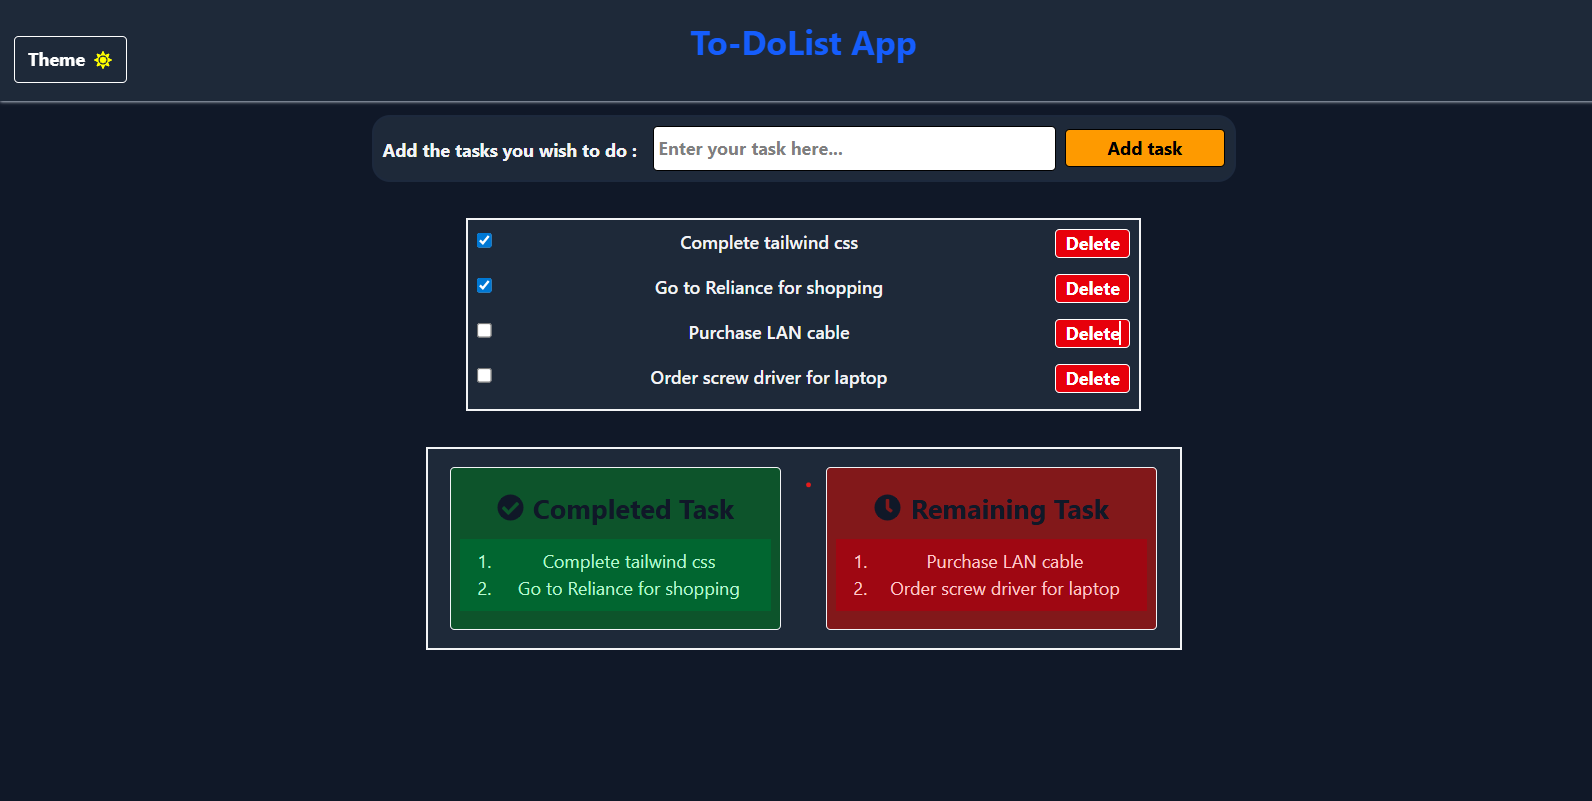
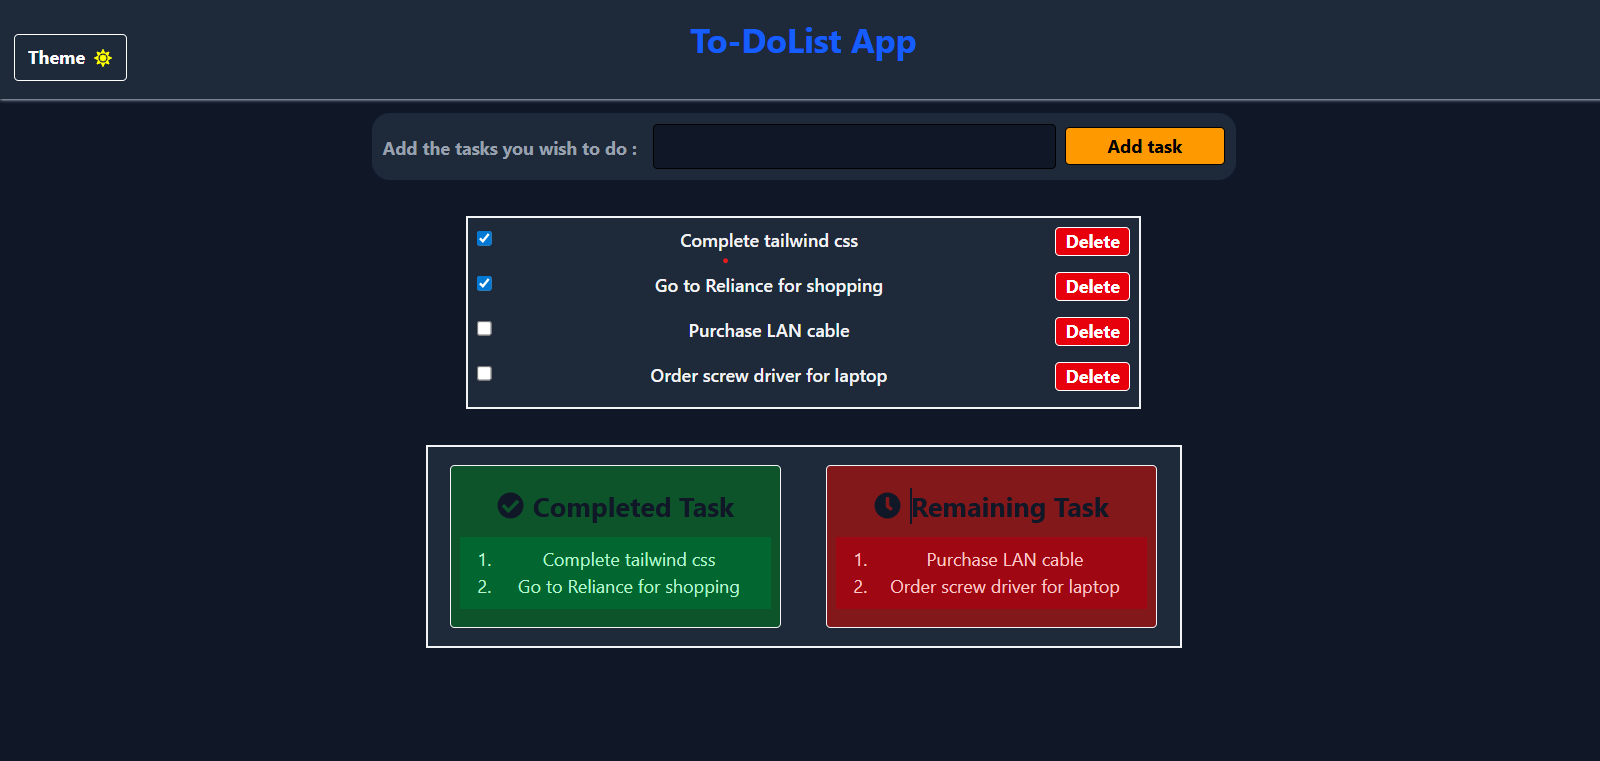
Styled input box

diff --git a/src/components/ToDoApp.tsx b/src/components/ToDoApp.tsx
@@ -96,8 +96,8 @@ const ToDoApp = () => {
             type="text"
             value={task}
             onChange={(e) => setTask(e.target.value)}
-            className="sm:text-md border rounded flex-2 md:flex-3 dark:bg-gray-900 bg-white sm:h-10
-            text-black p-1 min-w-0 focus:outline-none focus:ring-2 ring-amber-400"
+            className="sm:text-md border rounded flex-2 md:flex-3 dark:bg-gray-900 dark:text-gray-200 bg-white sm:h-10
+            text-black p-1 min-w-0 focus:outline-none focus:ring-2 ring-amber-400 pl-2"
           />
           <button
             type="submit"
